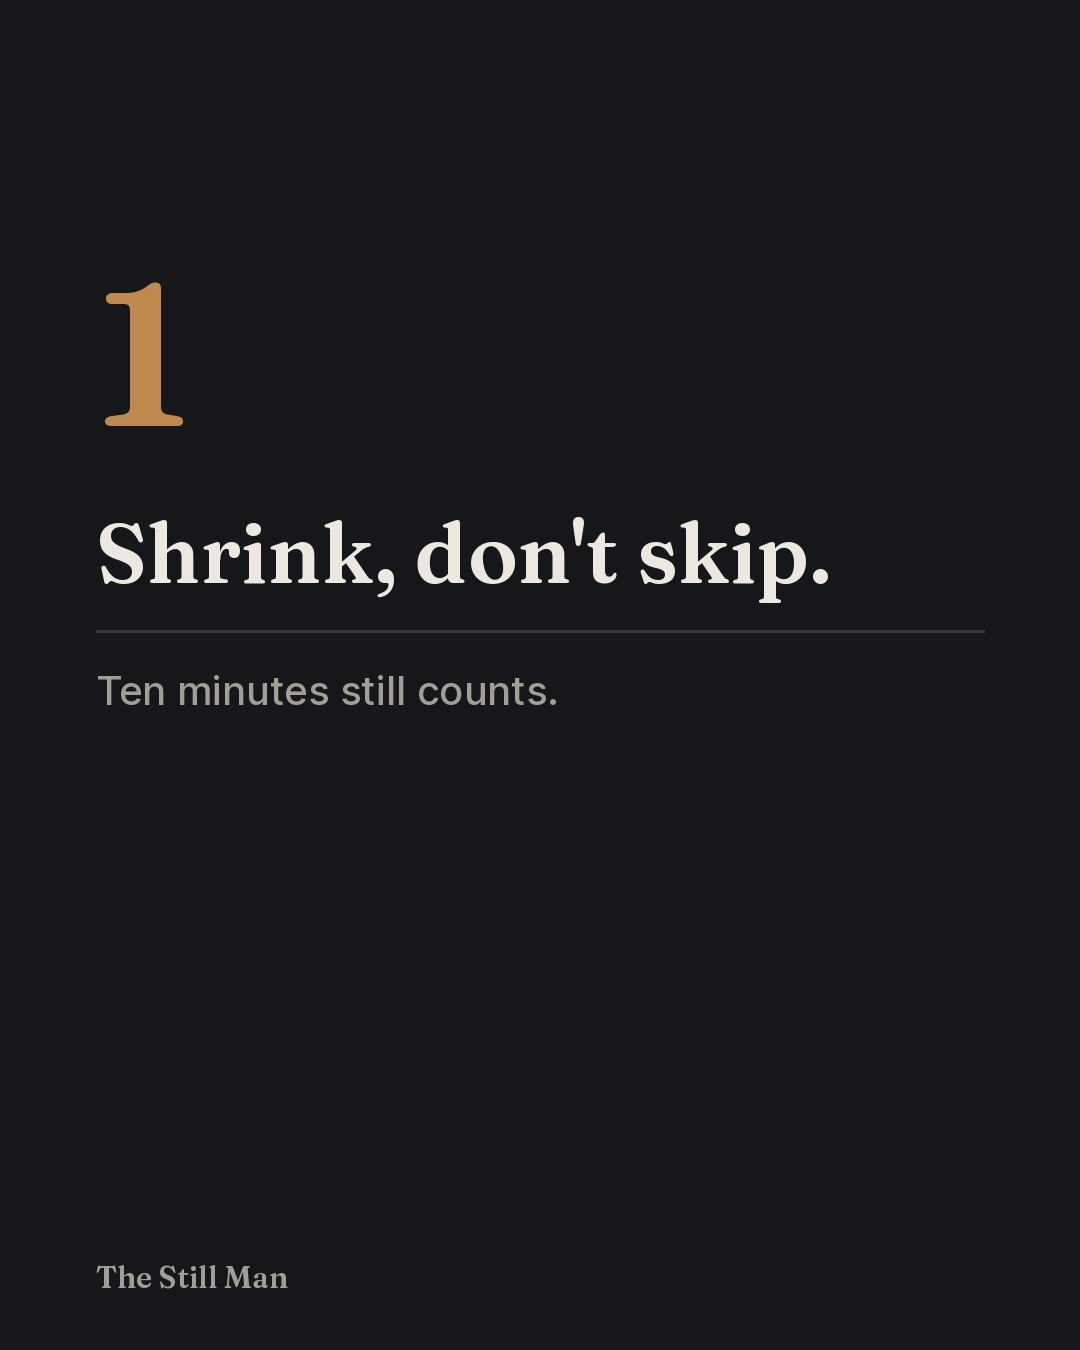
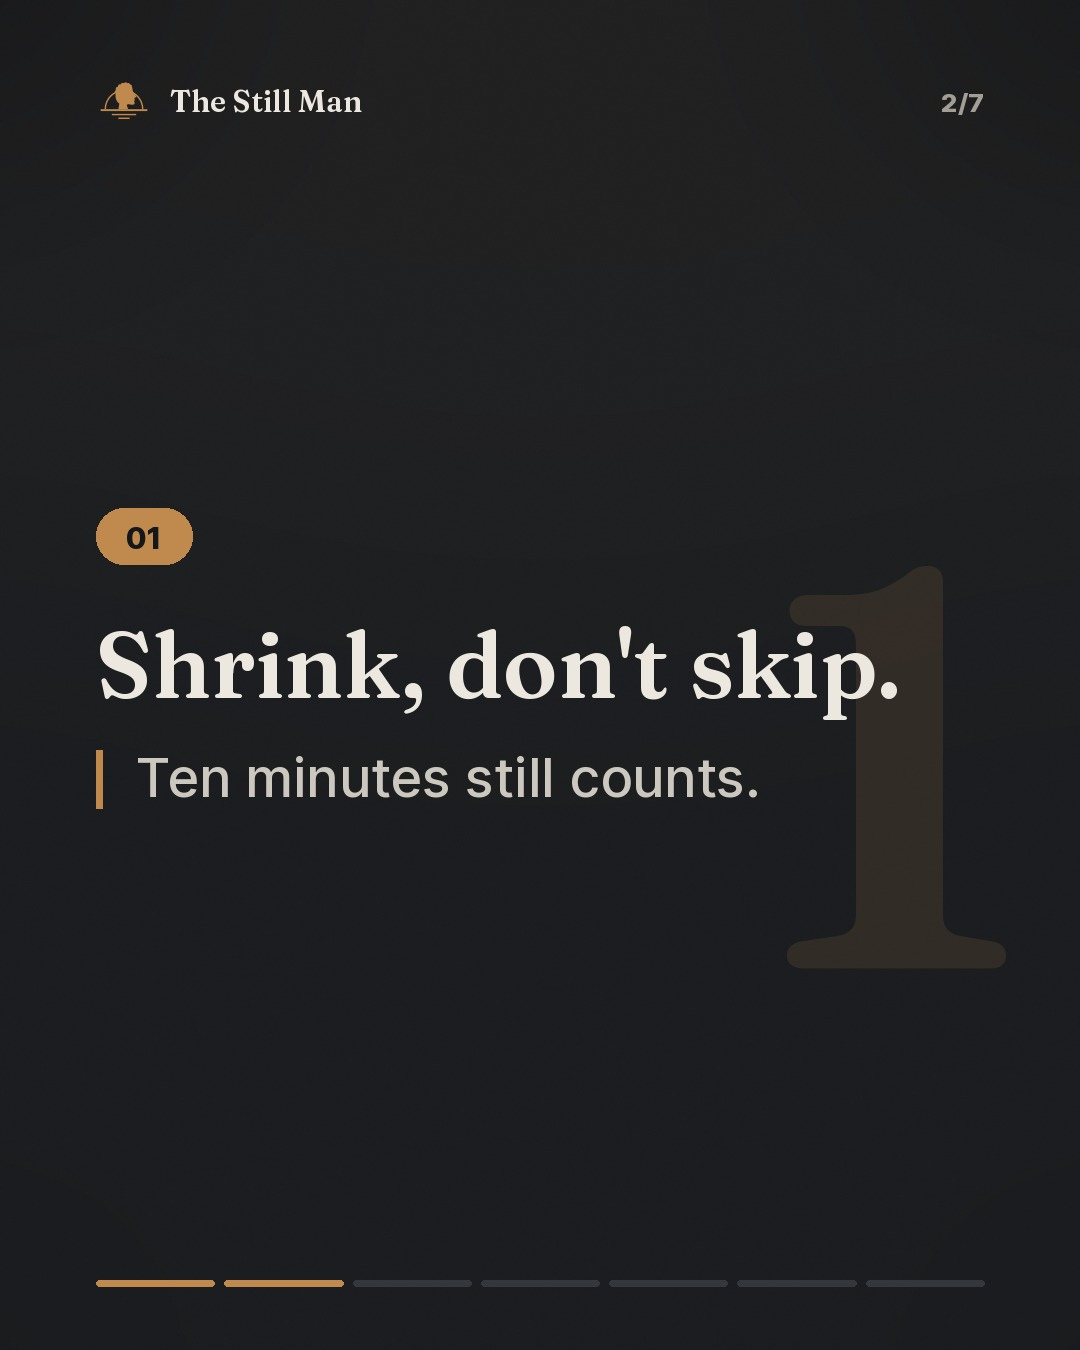
Carousel design v2 (textured ground, counter + progress bar, hook cover, ghost numbers, save/follow end card); re-render this weekend's carousels [skip ci]
Claude-Session: https://claude.ai/code/session_01RpqwoQUTkFMrobCyeVLwpd

diff --git a/pipeline/carousel.py b/pipeline/carousel.py
@@ -1,9 +1,18 @@
-"""Render brand carousels (1080x1350 JPEG slides) for Instagram and TikTok photo mode."""
-from PIL import Image, ImageDraw
-from common import GROUND, INK, MUTED, BRONZE, LINE, font
+"""Render brand carousels (1080x1350 JPEG slides) for Instagram and TikTok photo mode.
+
+Design v2: textured charcoal ground, slide counter + progress bar, big hook cover with a
+bronze key word, oversized ghost numbers on point slides, larger readable body text and
+a follow/save end card. Same slide schema as before (cover / point / cta).
+"""
+import random
+from PIL import Image, ImageDraw, ImageFilter
+from common import GROUND, INK, MUTED, BRONZE, LINE, font, logo_png
 
 W, H = 1080, 1350
 M = 96  # outer margin
+HANDLE = "The Still Man"
+STOP = {"a", "an", "the", "of", "to", "and", "or", "in", "on", "at", "for", "with", "is", "his", "your", "you", "he", "it",
+        "before", "after", "when", "what", "how", "do", "this", "that", "4", "5", "3", "6", "7"}
 
 
 def wrap(d, text, f, maxw):
@@ -18,49 +27,155 @@ def wrap(d, text, f, maxw):
     return lines
 
 
-def text_block(d, xy, text, f, fill, maxw, lh):
+def text_block(d, xy, text, f, fill, maxw, lh, accent=None, accent_fill=BRONZE):
+    """Draw wrapped text; words in `accent` (lowercase, stripped) are drawn in accent_fill."""
     x, y = xy
     for ln in wrap(d, text, f, maxw):
-        d.text((x, y), ln, font=f, fill=fill); y += lh
+        if accent:
+            cx = x
+            for i, w in enumerate(ln.split(" ")):
+                piece = w + (" " if i < len(ln.split(" ")) - 1 else "")
+                col = accent_fill if w.lower().strip(".,:;!?'\"") in accent else fill
+                d.text((cx, y), piece, font=f, fill=col)
+                cx += d.textlength(piece, font=f)
+        else:
+            d.text((x, y), ln, font=f, fill=fill)
+        y += lh
     return y
 
 
-def base(mark=True):
+def block_height(text, f, maxw, lh):
+    d = ImageDraw.Draw(Image.new("RGB", (W, H)))
+    return len(wrap(d, text, f, maxw)) * lh
+
+
+_GROUND_CACHE = {}
+
+
+def ground(seed=0):
+    """Charcoal ground with a soft top glow, vignette and fine film grain."""
+    if seed in _GROUND_CACHE:
+        return _GROUND_CACHE[seed].copy()
     im = Image.new("RGB", (W, H), GROUND)
-    d = ImageDraw.Draw(im)
-    if mark: d.text((M, H - 92), "The Still Man", font=font("Fraunces-600.ttf", 30), fill=MUTED)
-    return im, d
+    glow = Image.new("L", (W, H), 0)
+    gd = ImageDraw.Draw(glow)
+    gd.ellipse([-300, -520, W + 300, 620], fill=38)
+    glow = glow.filter(ImageFilter.GaussianBlur(160))
+    warm = Image.new("RGB", (W, H), (58, 50, 42))
+    im = Image.composite(warm, im, glow)
+    vig = Image.new("L", (W, H), 0)
+    ImageDraw.Draw(vig).rectangle([0, 0, W, H], fill=0)
+    edge = Image.new("L", (W, H), 255)
+    ImageDraw.Draw(edge).ellipse([-200, -100, W + 200, H + 220], fill=0)
+    edge = edge.filter(ImageFilter.GaussianBlur(140))
+    im = Image.composite(Image.new("RGB", (W, H), (10, 11, 13)), im, edge.point(lambda v: int(v * 0.7)))
+    rnd = random.Random(seed)
+    noise = Image.effect_noise((W, H), 22).point(lambda v: 128 + (v - 128) // 3)
+    im = Image.blend(im, Image.merge("RGB", (noise, noise, noise)), 0.06)
+    _GROUND_CACHE[seed] = im
+    return im.copy()
 
 
-def slide(s):
+def chrome(im, d, idx, total, dark_mark=True):
+    """Top bar (logo + handle, slide counter) and bottom progress segments."""
+    try:
+        lg = logo_png(56).resize((56, 56))
+        im.paste(lg, (M, 70), lg)
+        hx = M + 74
+    except Exception:
+        hx = M
+    d.text((hx, 82), "The Still Man", font=font("Fraunces-600.ttf", 30), fill=INK)
+    cnt = f"{idx}/{total}"
+    cf = font("Inter-800.ttf", 26)
+    d.text((W - M - d.textlength(cnt, font=cf), 86), cnt, font=cf, fill=MUTED)
+    # progress bar
+    gap, y = 10, H - 70
+    seg = (W - 2 * M - gap * (total - 1)) / total
+    for i in range(total):
+        x0 = M + i * (seg + gap)
+        d.rounded_rectangle([x0, y, x0 + seg, y + 6], 3, fill=BRONZE if i < idx else LINE)
+
+
+def keywords(title, given=None):
+    if given:
+        return {w.lower() for w in given}
+    words = [w.lower().strip(".,:;!?'\"") for w in title.split()]
+    cand = [w for w in words if w and w not in STOP and len(w) > 3]
+    return {max(cand, key=len)} if cand else set()
+
+
+def slide(s, idx, total):
     k = s["kind"]
-    im, d = base(mark=(k != "cta"))
+    im = ground(idx)
+    d = ImageDraw.Draw(im)
+    chrome(im, d, idx, total)
     if k == "cover":
-        y = text_block(d, (M, 300), s["title"], font("Fraunces-600.ttf", 104), INK, W - 2 * M, 112)
-        d.rectangle([M, y + 40, M + 300, y + 43], fill=BRONZE)
-        if s.get("subtitle"):
-            text_block(d, (M, y + 80), s["subtitle"], font("Inter-500.ttf", 34), MUTED, W - 2 * M, 46)
+        tf = font("Inter-800.ttf", 112 if len(s["title"]) < 40 else 96)
+        title = s["title"].upper()
+        lh = int(tf.size * 1.06)
+        th = block_height(title, tf, W - 2 * M, lh)
+        sub = s.get("subtitle", "")
+        sf = font("Fraunces-600-Italic.ttf", 46)
+        sh = block_height(sub, sf, W - 2 * M, 60) if sub else 0
+        y = max(250, (H - th - sh - 90) // 2 - 20)
+        y = text_block(d, (M, y), title, tf, INK, W - 2 * M, lh, accent=keywords(s["title"], s.get("accent")))
+        d.rectangle([M, y + 34, M + 140, y + 40], fill=BRONZE)
+        if sub:
+            text_block(d, (M, y + 80), sub, sf, MUTED, W - 2 * M, 60)
+        # swipe chip
+        chip = "SWIPE"
+        cf = font("Inter-800.ttf", 28)
+        cw = d.textlength(chip, font=cf) + 110
+        x0, y0 = W - M - cw, H - 170
+        d.rounded_rectangle([x0, y0, W - M, y0 + 58], 29, outline=BRONZE, width=3)
+        d.text((x0 + 30, y0 + 13), chip, font=cf, fill=BRONZE)
+        ax = x0 + 30 + d.textlength(chip, font=cf) + 16
+        d.line([(ax, y0 + 29), (ax + 34, y0 + 29)], fill=BRONZE, width=4)
+        d.polygon([(ax + 34, y0 + 19), (ax + 48, y0 + 29), (ax + 34, y0 + 39)], fill=BRONZE)
     elif k == "point":
-        d.text((M, 230), str(s["num"]), font=font("Fraunces-600.ttf", 200), fill=BRONZE)
-        y = text_block(d, (M, 500), s["title"], font("Fraunces-600.ttf", 84), INK, W - 2 * M, 94)
-        d.rectangle([M, y + 36, W - M, y + 38], fill=LINE)
+        num = str(s["num"])
+        # ghost number
+        gf = font("Fraunces-600.ttf", 560)
+        gx = W - M - d.textlength(num, font=gf) + 40
+        ghost = Image.new("RGBA", (W, H), (0, 0, 0, 0))
+        ImageDraw.Draw(ghost).text((gx, 420), num, font=gf, fill=(*BRONZE, 34))
+        im.paste(ghost, (0, 0), ghost); d = ImageDraw.Draw(im)
+        tf = font("Fraunces-600.ttf", 92)
+        bf = font("Inter-500.ttf", 54)
+        th = block_height(s["title"], tf, W - 2 * M - 60, 102)
+        bh = block_height(s.get("body", ""), bf, W - 2 * M - 70, 72) if s.get("body") else 0
+        y = max(240, (H - (100 + th + 40 + bh)) // 2 - 10)
+        d.rounded_rectangle([M, y, M + 96, y + 56], 28, fill=BRONZE)
+        nf = font("Inter-800.ttf", 30)
+        d.text((M + 48 - d.textlength(num.zfill(2), font=nf) / 2, y + 11), num.zfill(2), font=nf, fill=GROUND)
+        y = text_block(d, (M, y + 100), s["title"], tf, INK, W - 2 * M - 60, 102)
         if s.get("body"):
-            text_block(d, (M, y + 72), s["body"], font("Inter-500.ttf", 40), MUTED, W - 2 * M - 40, 54)
+            y += 40
+            d.rectangle([M, y, M + 6, y + bh - 14], fill=BRONZE)
+            text_block(d, (M + 40, y - 6), s["body"], bf, (205, 200, 191), W - 2 * M - 70, 72)
     elif k == "cta":
-        y = text_block(d, (M, 330), s["title"], font("Fraunces-600.ttf", 96), INK, W - 2 * M, 106)
-        bf = font("Inter-800.ttf", 34); label = s.get("button", "Save")
-        bw = d.textlength(label, font=bf) + 80
-        d.rounded_rectangle([M, y + 60, M + bw, y + 140], 6, fill=BRONZE)
-        d.text((M + 40, y + 81), label, font=bf, fill=GROUND)
-        d.text((M, H - 300), "The Still Man", font=font("Fraunces-600.ttf", 72), fill=INK)
-        d.text((M, H - 205), "Calm confidence, built daily.", font=font("Inter-500.ttf", 32), fill=MUTED)
+        tf = font("Fraunces-600.ttf", 100)
+        th = block_height(s["title"], tf, W - 2 * M, 110)
+        y = max(280, (H - th - 420) // 2)
+        # bookmark icon
+        bx, by = M, y
+        d.polygon([(bx, by), (bx + 64, by), (bx + 64, by + 86), (bx + 32, by + 64), (bx, by + 86)], fill=BRONZE)
+        y = text_block(d, (M, y + 130), s["title"], tf, INK, W - 2 * M, 110)
+        bf = font("Inter-800.ttf", 36); label = (s.get("button", "Save") + " it").upper() if s.get("button", "Save") == "Save" else s["button"].upper()
+        bw = d.textlength(label, font=bf) + 96
+        d.rounded_rectangle([M, y + 60, M + bw, y + 150], 45, fill=BRONZE)
+        d.text((M + 48, y + 84), label, font=bf, fill=GROUND)
+        d.rectangle([M, H - 330, W - M, H - 328], fill=LINE)
+        d.text((M, H - 290), "Follow " + HANDLE, font=font("Inter-800.ttf", 44), fill=INK)
+        d.text((M, H - 222), "One small rep a day. Calm confidence, built daily.", font=font("Inter-500.ttf", 32), fill=MUTED)
     return im
 
 
 def render(post, out_dir, prefix):
     paths = []
+    total = len(post["slides"])
     for i, s in enumerate(post["slides"], 1):
         p = out_dir / f"{prefix}-{i}.jpg"
-        slide(s).save(p, quality=92)
+        slide(s, i, total).save(p, quality=92)
         paths.append(p)
     return paths
